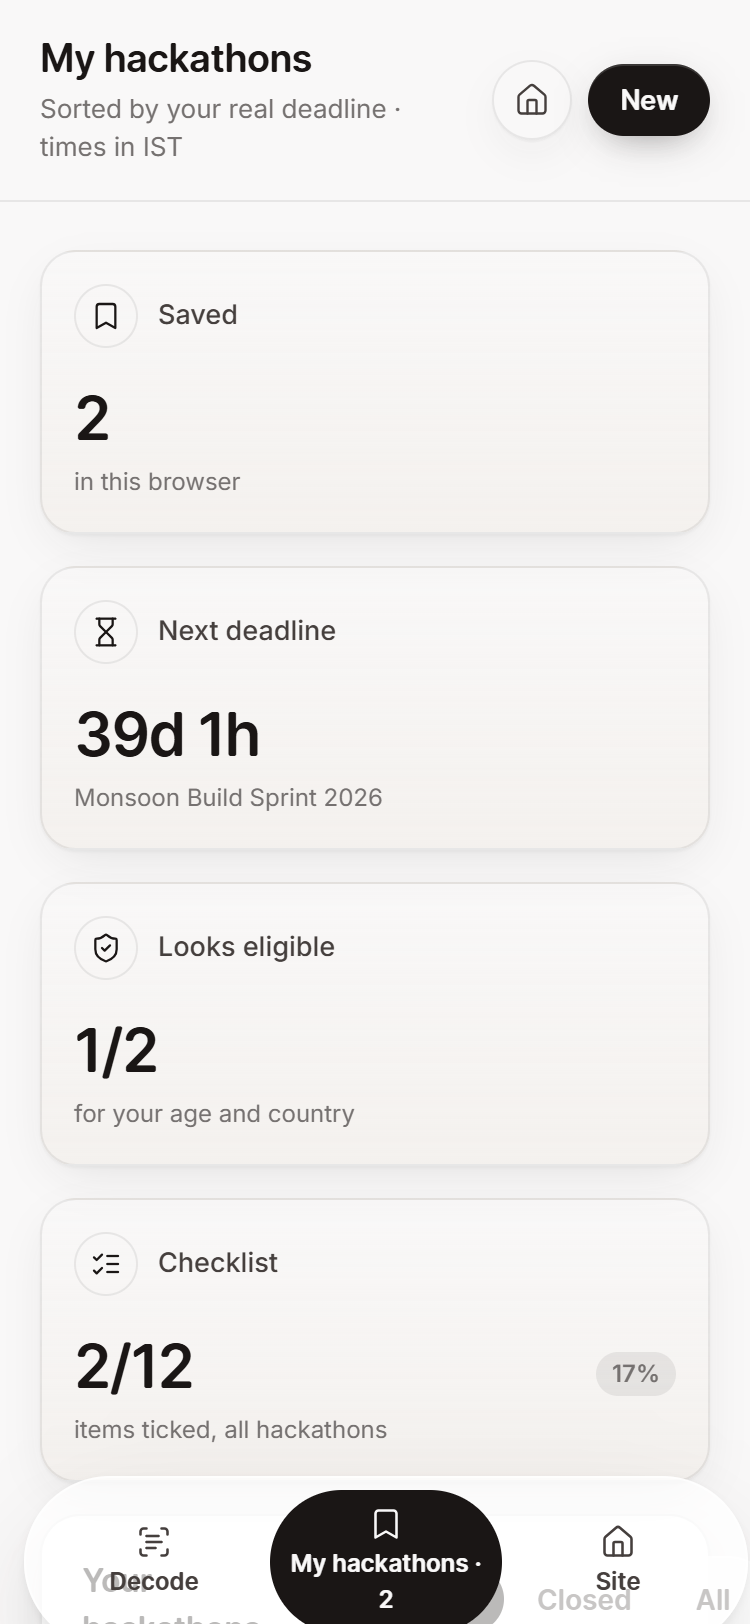
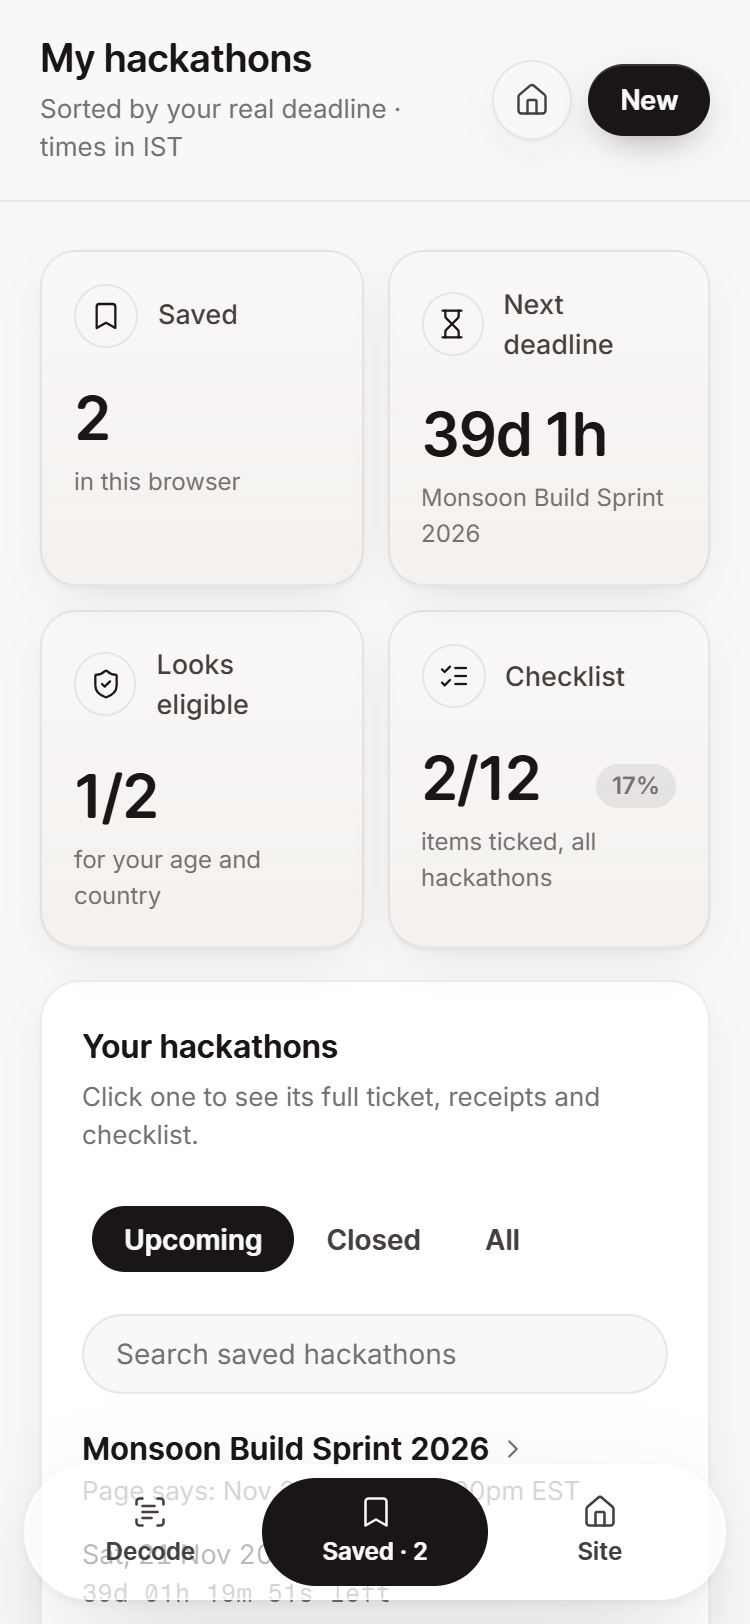
Accessibility and phone-layout fixes after the rebuild
AA-contrast verdict badges, screen-reader h1 per app view, Decode tiles hidden
on phones (paste first), two-up saved tiles, filter toggle under the panel
title on phones, shorter tab label. Screenshots retaken.

diff --git a/src/app/RuleDostApp.tsx b/src/app/RuleDostApp.tsx
@@ -322,10 +322,13 @@ export function RuleDostApp({ hash }: { hash: string }) {
           </p>
         }
       >
+        <h1 className="sr-only">
+          RuleDost: {route.view === "decode" ? "decode a rules page" : route.view === "saved" ? "my hackathons" : entry ? entry.name : "saved hackathon"}
+        </h1>
         {content}
         <div className="h-24 md:hidden" aria-hidden />
       </AppShell>
-      <MobileTabBar items={[...navItems, { id: "home", label: "Site", icon: <Home /> }]} active={active} onNavigate={navigate} />
+      <MobileTabBar items={[navItems[0], { ...navItems[1], label: "Saved" }, { id: "home", label: "Site", icon: <Home /> }]} active={active} onNavigate={navigate} />
       <Toast message={toast} />
     </>
   );
@@ -360,7 +363,7 @@ function DecodeView(props: {
 
   return (
     <>
-      <div className="grid gap-4 sm:grid-cols-2 xl:grid-cols-4">
+      <div className="hidden gap-4 sm:grid sm:grid-cols-2 xl:grid-cols-4">
         <StatTile
           icon={<CalendarClock />}
           label="Your deadline"
@@ -394,7 +397,7 @@ function DecodeView(props: {
         />
       </div>
 
-      <div className="mt-4 grid gap-4 lg:grid-cols-12">
+      <div className="grid gap-4 sm:mt-4 lg:grid-cols-12">
         <div className="space-y-4 lg:sticky lg:top-[88px] lg:col-span-5 lg:self-start">
           <Panel title="Paste the rules" description="Open the hackathon's Rules page, press Ctrl+A then Ctrl+C, and paste it here.">
             <textarea
@@ -637,7 +640,7 @@ function SavedView({
 
   return (
     <>
-      <div className="grid gap-4 sm:grid-cols-2 xl:grid-cols-4">
+      <div className="grid grid-cols-2 gap-3 sm:gap-4 xl:grid-cols-4">
         <StatTile icon={<Bookmark />} label="Saved" value={saved.length} hint="in this browser" />
         <StatTile icon={<Hourglass />} label="Next deadline" value={next ? shortLeft(next.deadline!.utc, now) : "—"} hint={next ? next.name : "nothing upcoming"} />
         <StatTile icon={<ShieldCheck />} label="Looks eligible" value={`${eligible}/${saved.length}`} tone="pos" delta={eligible === saved.length ? "all" : undefined} hint="for your age and country" />
@@ -649,7 +652,8 @@ function SavedView({
         title="Your hackathons"
         description="Click one to see its full ticket, receipts and checklist."
         action={
-          <Segmented
+          <div className="hidden sm:block">
+            <Segmented
             id="saved-filter"
             value={filter}
             onChange={setFilter}
@@ -659,8 +663,21 @@ function SavedView({
               { value: "all", label: "All" },
             ]}
           />
+          </div>
         }
       >
+        <div className="mb-4 sm:hidden">
+          <Segmented
+            id="saved-filter-mobile"
+            value={filter}
+            onChange={setFilter}
+            options={[
+              { value: "upcoming", label: "Upcoming" },
+              { value: "closed", label: "Closed" },
+              { value: "all", label: "All" },
+            ]}
+          />
+        </div>
         <input
           value={query}
           onChange={(e) => setQuery(e.target.value)}

diff --git a/src/ui/TicketParts.tsx b/src/ui/TicketParts.tsx
@@ -1,7 +1,7 @@
 import { motion } from "motion/react";
 import { CalendarDays, Check, CheckCircle2, CircleHelp, Clock3, Globe2, Hourglass, MoonStar, XCircle } from "lucide-react";
 import type { ReactNode } from "react";
-import { Badge, cn } from "../kit";
+import { cn } from "../kit";
 import { EASE } from "../kit/lib/motion";
 import { countdown, dateShift, formatPieces, isLateNight } from "../lib/time.js";
 import { convertPrize, formatMoney } from "../lib/money.js";
@@ -18,12 +18,18 @@ export function StatusIcon({ status }: { status: Status }) {
 }
 
 export function VerdictBadge({ verdict }: { verdict: Verdict }) {
-  const tone = verdict.badge === "ok" ? "pos" : verdict.badge === "bad" ? "neg" : "neutral";
+  // Same shape as the kit Badge; text is a darker mix of --pos/--neg so 12px labels pass WCAG AA (≥ 4.5:1).
+  const tone =
+    verdict.badge === "ok"
+      ? "bg-[color-mix(in_oklab,var(--pos)_12%,transparent)] text-[color-mix(in_srgb,var(--pos)_62%,black)]"
+      : verdict.badge === "bad"
+        ? "bg-[color-mix(in_oklab,var(--neg)_12%,transparent)] text-[color-mix(in_srgb,var(--neg)_78%,black)]"
+        : "bg-paper-3 text-ink-2";
   return (
-    <Badge tone={tone}>
+    <span className={cn("inline-flex items-center gap-1 rounded-full px-2.5 py-1 text-[12px] font-semibold", tone)}>
       <span className="size-1.5 rounded-full bg-current" aria-hidden />
       {verdict.label}
-    </Badge>
+    </span>
   );
 }
 

diff --git a/devpost/checklist.md b/devpost/checklist.md
@@ -108,3 +108,4 @@ Activity mode: Pending. Suggested: guided route with the live app and editor.
   - `tsc -b` and `vite build` pass, and `npm test` passes 54/54.
   - In the browser: decode of both samples, Save, ticks persisting after save, rename, My hackathons (filters, search, open, remove), and `.ics` capture (`DTSTART:20261205T075900Z`, both alarms). No horizontal scroll at 375px.
   - Gallery screenshots were saved in `docs/screenshots/` at 1440px and 375px.
+- Post-rebuild accessibility and mobile pass (agent): the kit's green/red badge text on its tint measured 2.80:1 and 3.92:1, below WCAG AA for 12px text, so RuleDost's `VerdictBadge` uses darker mixes of the same tokens (6.20:1 and 5.80:1). Each app view gets a screen-reader `h1`, because the kit's greeting is a paragraph. On phones, the Decode tiles are hidden so the paste box comes first, the My hackathons tiles go two-up, the Upcoming/Closed/All toggle moves under the panel title, and the tab is labelled "Saved". An automated audit at 768px found no unnamed controls, no images without alt, and no horizontal overflow on the landing, Decode and My hackathons pages. Lighthouse itself was not run (it needs an extra download). Screenshots in `docs/screenshots/` were retaken.
